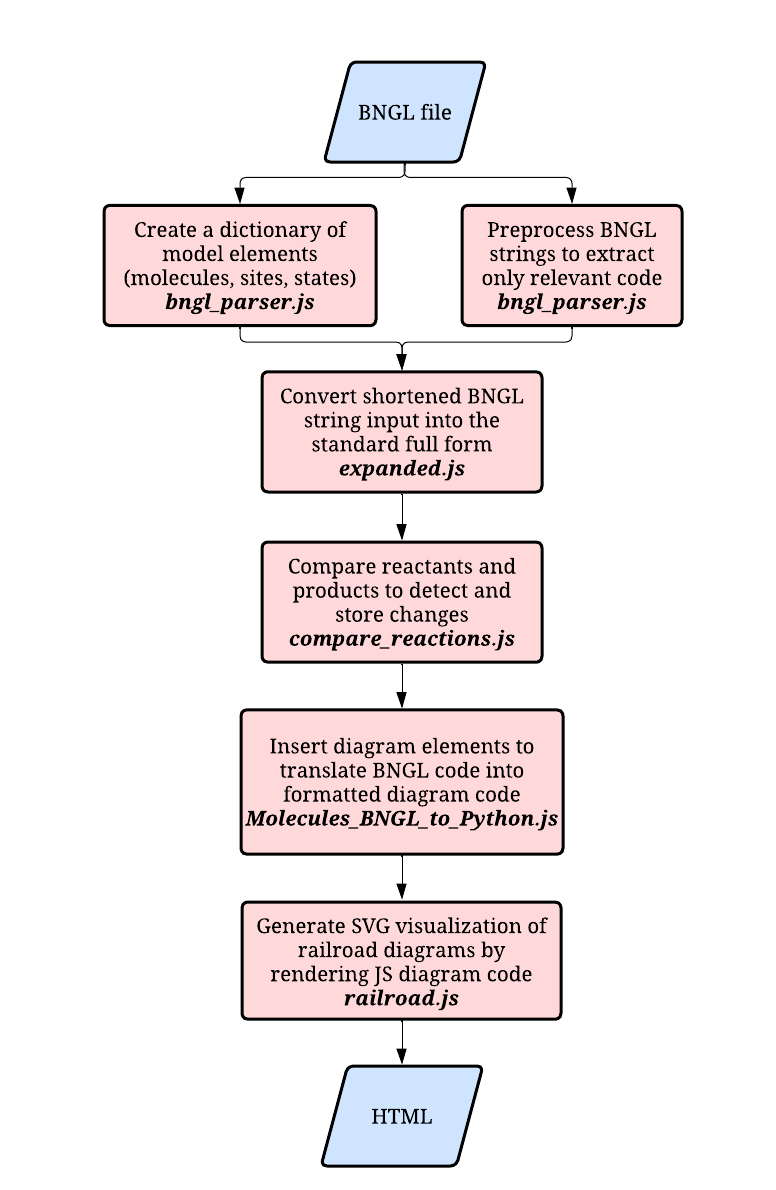
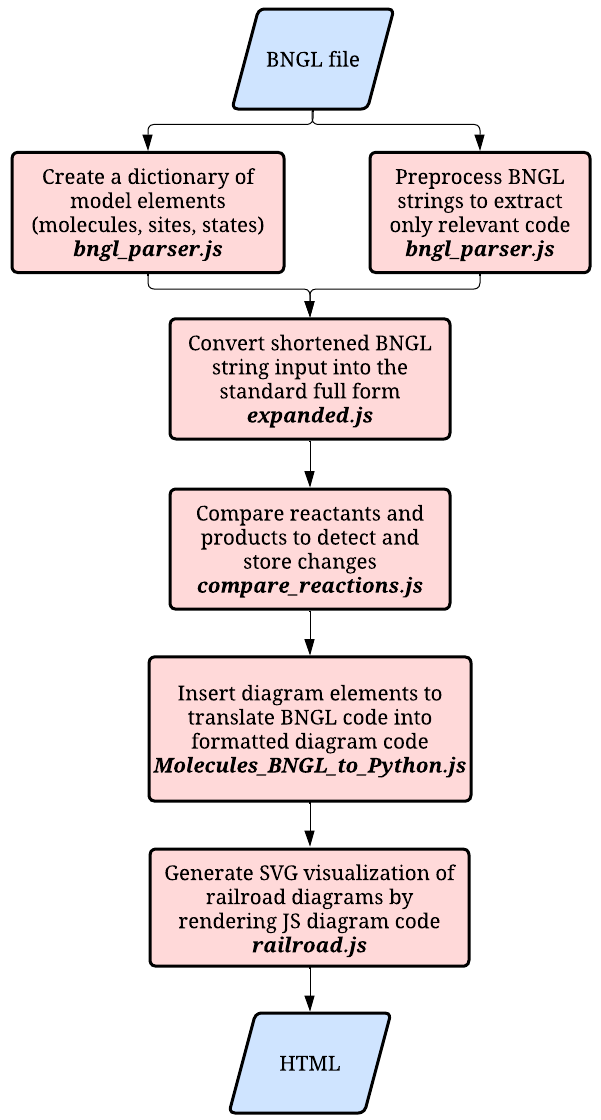
add flowchart image to README overview

Changed region(s): [[0.0, 0.0, 0.9884, 1.0]]

diff --git a/README.md b/README.md
@@ -1,6 +1,13 @@
 # Overview
 
-This package is designed to convert BioNetGen Language (BNGL) strings into visual railroad diagrams to represent biological networks and reaction mechanisms. The `bngl_parser.js` module preprocesses strings from BNGL code files. `expanded.js` returns fully expanded BNGL strings and `compare_reactions.js` finds differences between reactants and products in a BNGL reaction rule. `Molecules_BNGL_to_Python.js` is designed to take these parsed BNGL strings and translate them into formatted diagram code to be drawn by railroad diagram classes. `railroad2.js` is a railroad-diagram renderer that reads the diagram code and generates the SVG railroad visualization. These diagrams show molecular interactions by highlighting sites, states, bonds, and changes through reactions. 
+<img src="images/files-flowchart.png" alt="flowchart of implementation with file names" style="float:right" width="200" height="400">
+
+<br></br>
+<br></br>
+This package is designed to convert BioNetGen Language (BNGL) strings into visual railroad diagrams to represent biological networks and reaction mechanisms. The `bngl_parser.js` module preprocesses strings from BNGL code files. `expanded.js` returns fully expanded BNGL strings and `compare_reactions.js` finds differences between reactants and products in a BNGL reaction rule. `Molecules_BNGL_to_Python.js` is designed to take these parsed BNGL strings and translate them into formatted diagram code to be drawn by railroad diagram classes. `railroad2.js` is a railroad-diagram renderer that reads the diagram code and generates the SVG railroad visualization. These diagrams show molecular interactions by highlighting sites, states, bonds, and changes through reactions.
+<br></br>
+<br></br>
+<br></br>
 
 ## bngl_parser.js
 - Parses BNGL files line by line to extract sections such as molecule types, species, observables, and reaction rules.
